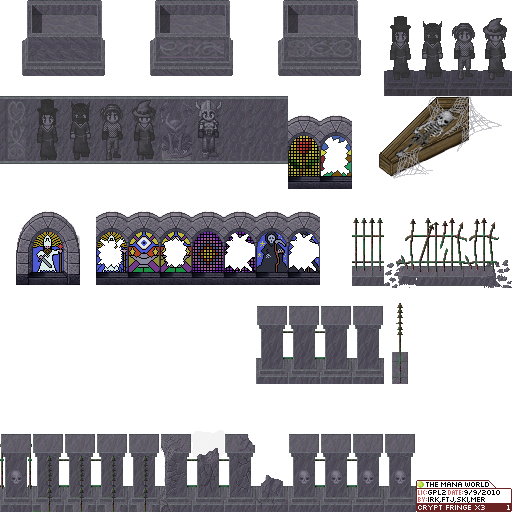
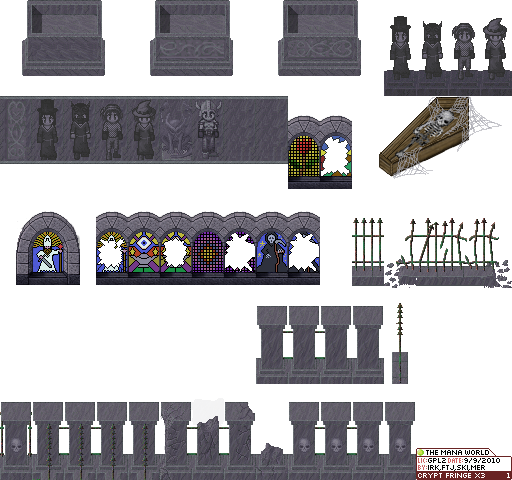
added Crypt-Fringe_x3.tsx, edited png, now tiles fit into x3 schema

diff --git a/tilesets/Crypt-Fringe_x3.tsx b/tilesets/Crypt-Fringe_x3.tsx
@@ -1,0 +1,4 @@
+<?xml version="1.0" encoding="UTF-8"?>
+<tileset name="Crypt-Fringe_x3" tilewidth="32" tileheight="96">
+ <image source="../graphics/tiles/Crypt-Fringe_x3.png" width="512" height="512"/>
+</tileset>
